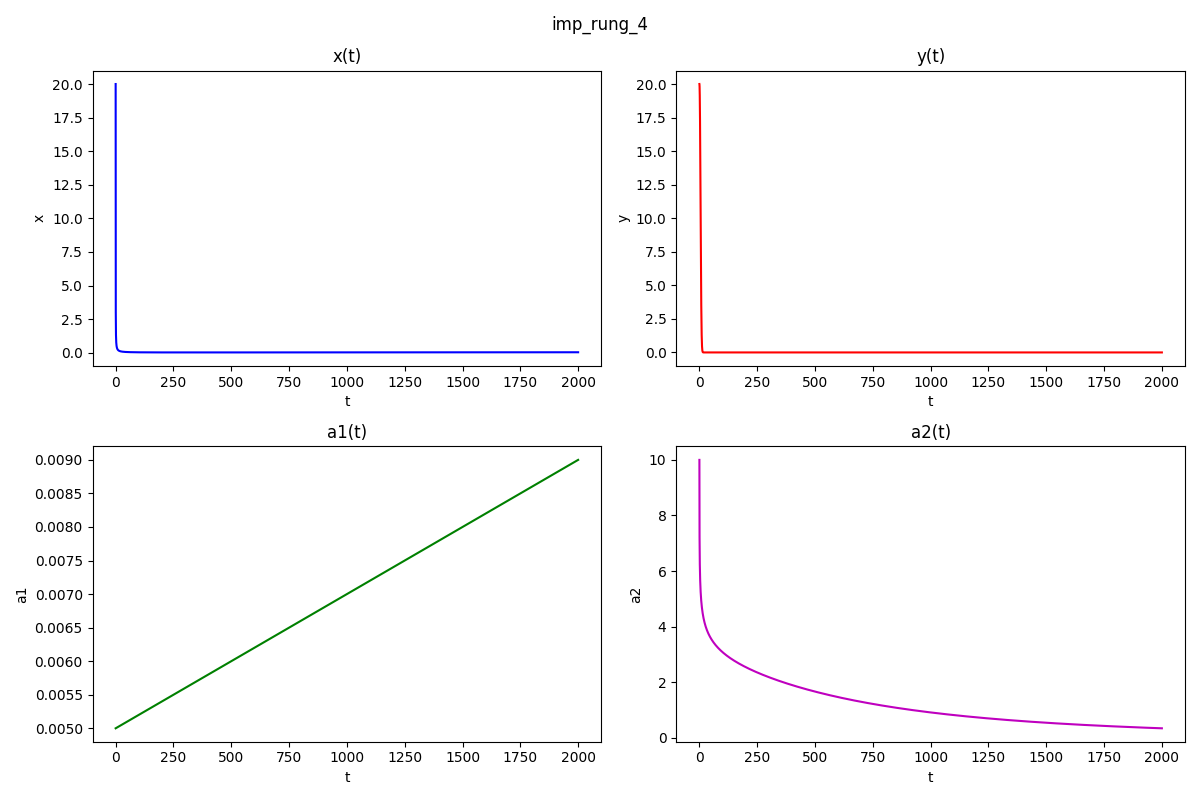
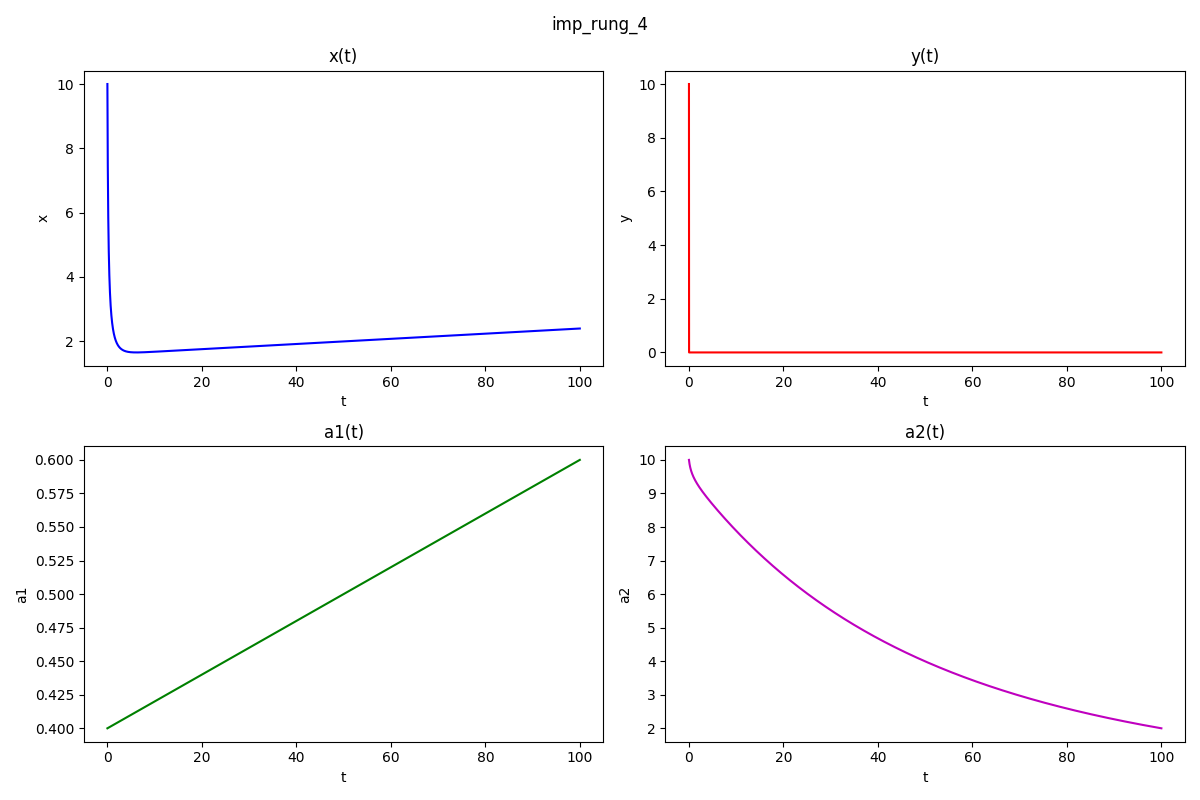
recalculate with new params

diff --git a/spring_term/lab_2/implicit_runge.py b/spring_term/lab_2/implicit_runge.py
@@ -145,10 +145,10 @@ def solver(nach_usl, T, h, eps, method='radau'):
     return t, sol
 
 
-eps = 0.000001
-nach_usl = np.array([20.0, 20.0, 0.005, 10.0])
-T = 2000
-h = 0.01
+eps = 0.001
+nach_usl = np.array([10.0, 10.0, 0.4, 10.0])
+T = 100
+h = 0.001  
 
 
 t_irk3, sol_irk3 = solver(nach_usl, T, h, eps, method='imp_rung_3')

diff --git a/spring_term/lab_2/rosenbrok.py b/spring_term/lab_2/rosenbrok.py
@@ -105,9 +105,9 @@ def solver(nach_usl, T, h, eps, method='row2'):
     
     return t, sol
 
-eps = 0.000001
-nach_usl = np.array([20.0, 20.0, 0.005, 10.0])
-T = 2000 
+eps = 0.001
+nach_usl = np.array([10.0, 10.0, 0.4, 10.0])
+T = 100
 h = 0.001  
 
 t_row2, sol_row2 = solver(nach_usl, T, h, eps, method='row2')

diff --git a/spring_term/lab_2/implicit_adams.py b/spring_term/lab_2/implicit_adams.py
@@ -74,9 +74,9 @@ def solver(nach_usl, T, h, eps):
     return t, sol
 
 # Параметры
-eps = 0.000001
-nach_usl = np.array([20.0, 20.0, 0.005, 10.0])
-T = 2000 
+eps = 0.001
+nach_usl = np.array([10.0, 10.0, 0.4, 10.0])
+T = 100
 h = 0.001  
 
 t, sol = solver(nach_usl, T, h, eps)
